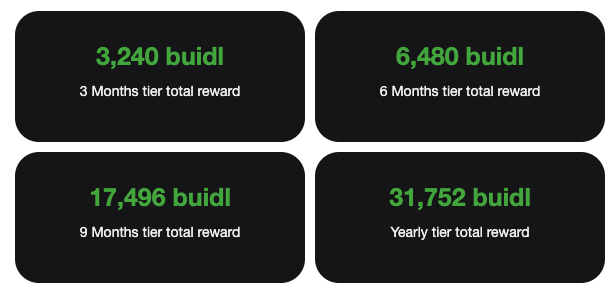
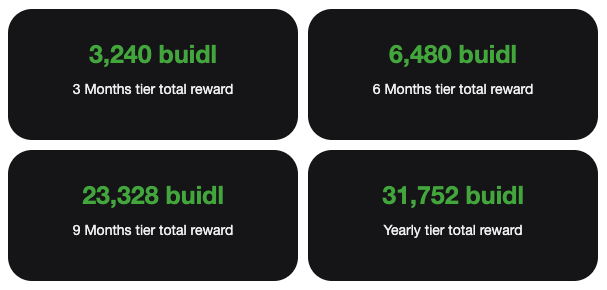
changes

diff --git a/spa/info/view.jsx b/spa/info/view.jsx
@@ -99,7 +99,7 @@ var Info = React.createClass({
                                 <p>6 Months tier total reward</p>
                             </section>
                             <section className="ExpParBox">
-                                <h6>17,496 buidl</h6>
+                                <h6>23,328 buidl</h6>
                                 <p>9 Months tier total reward</p>
                             </section>
                             <section className="ExpParBox">
